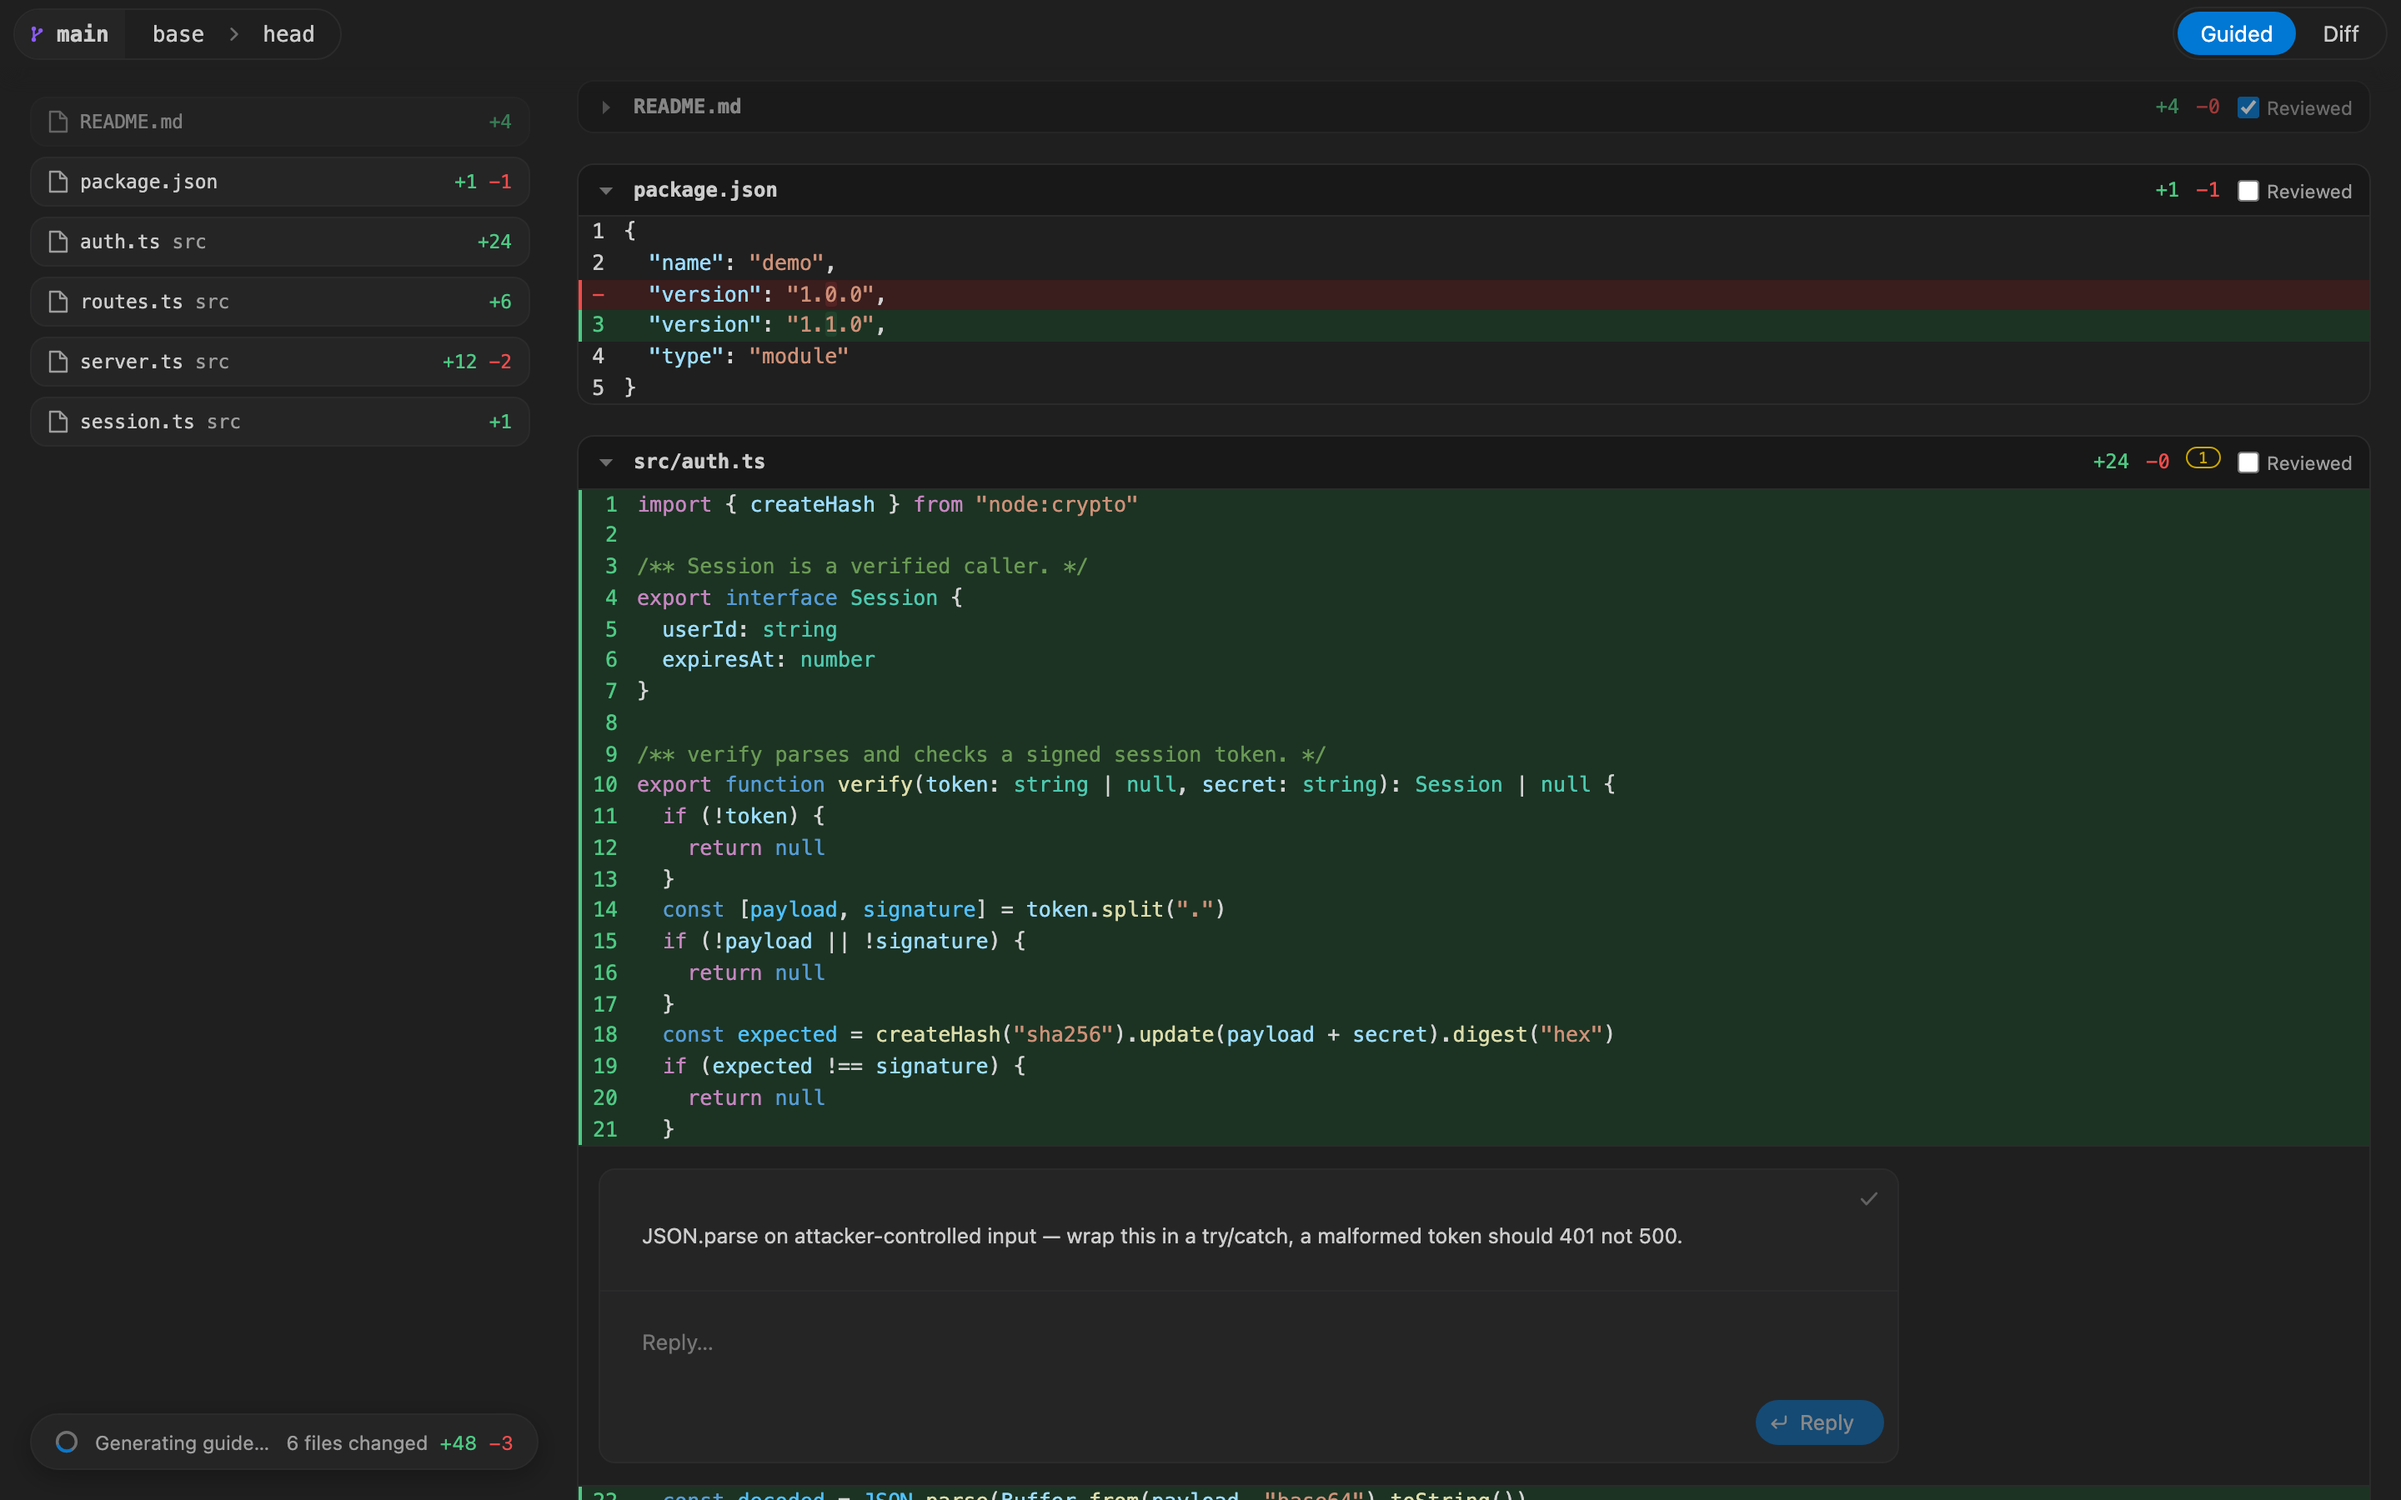
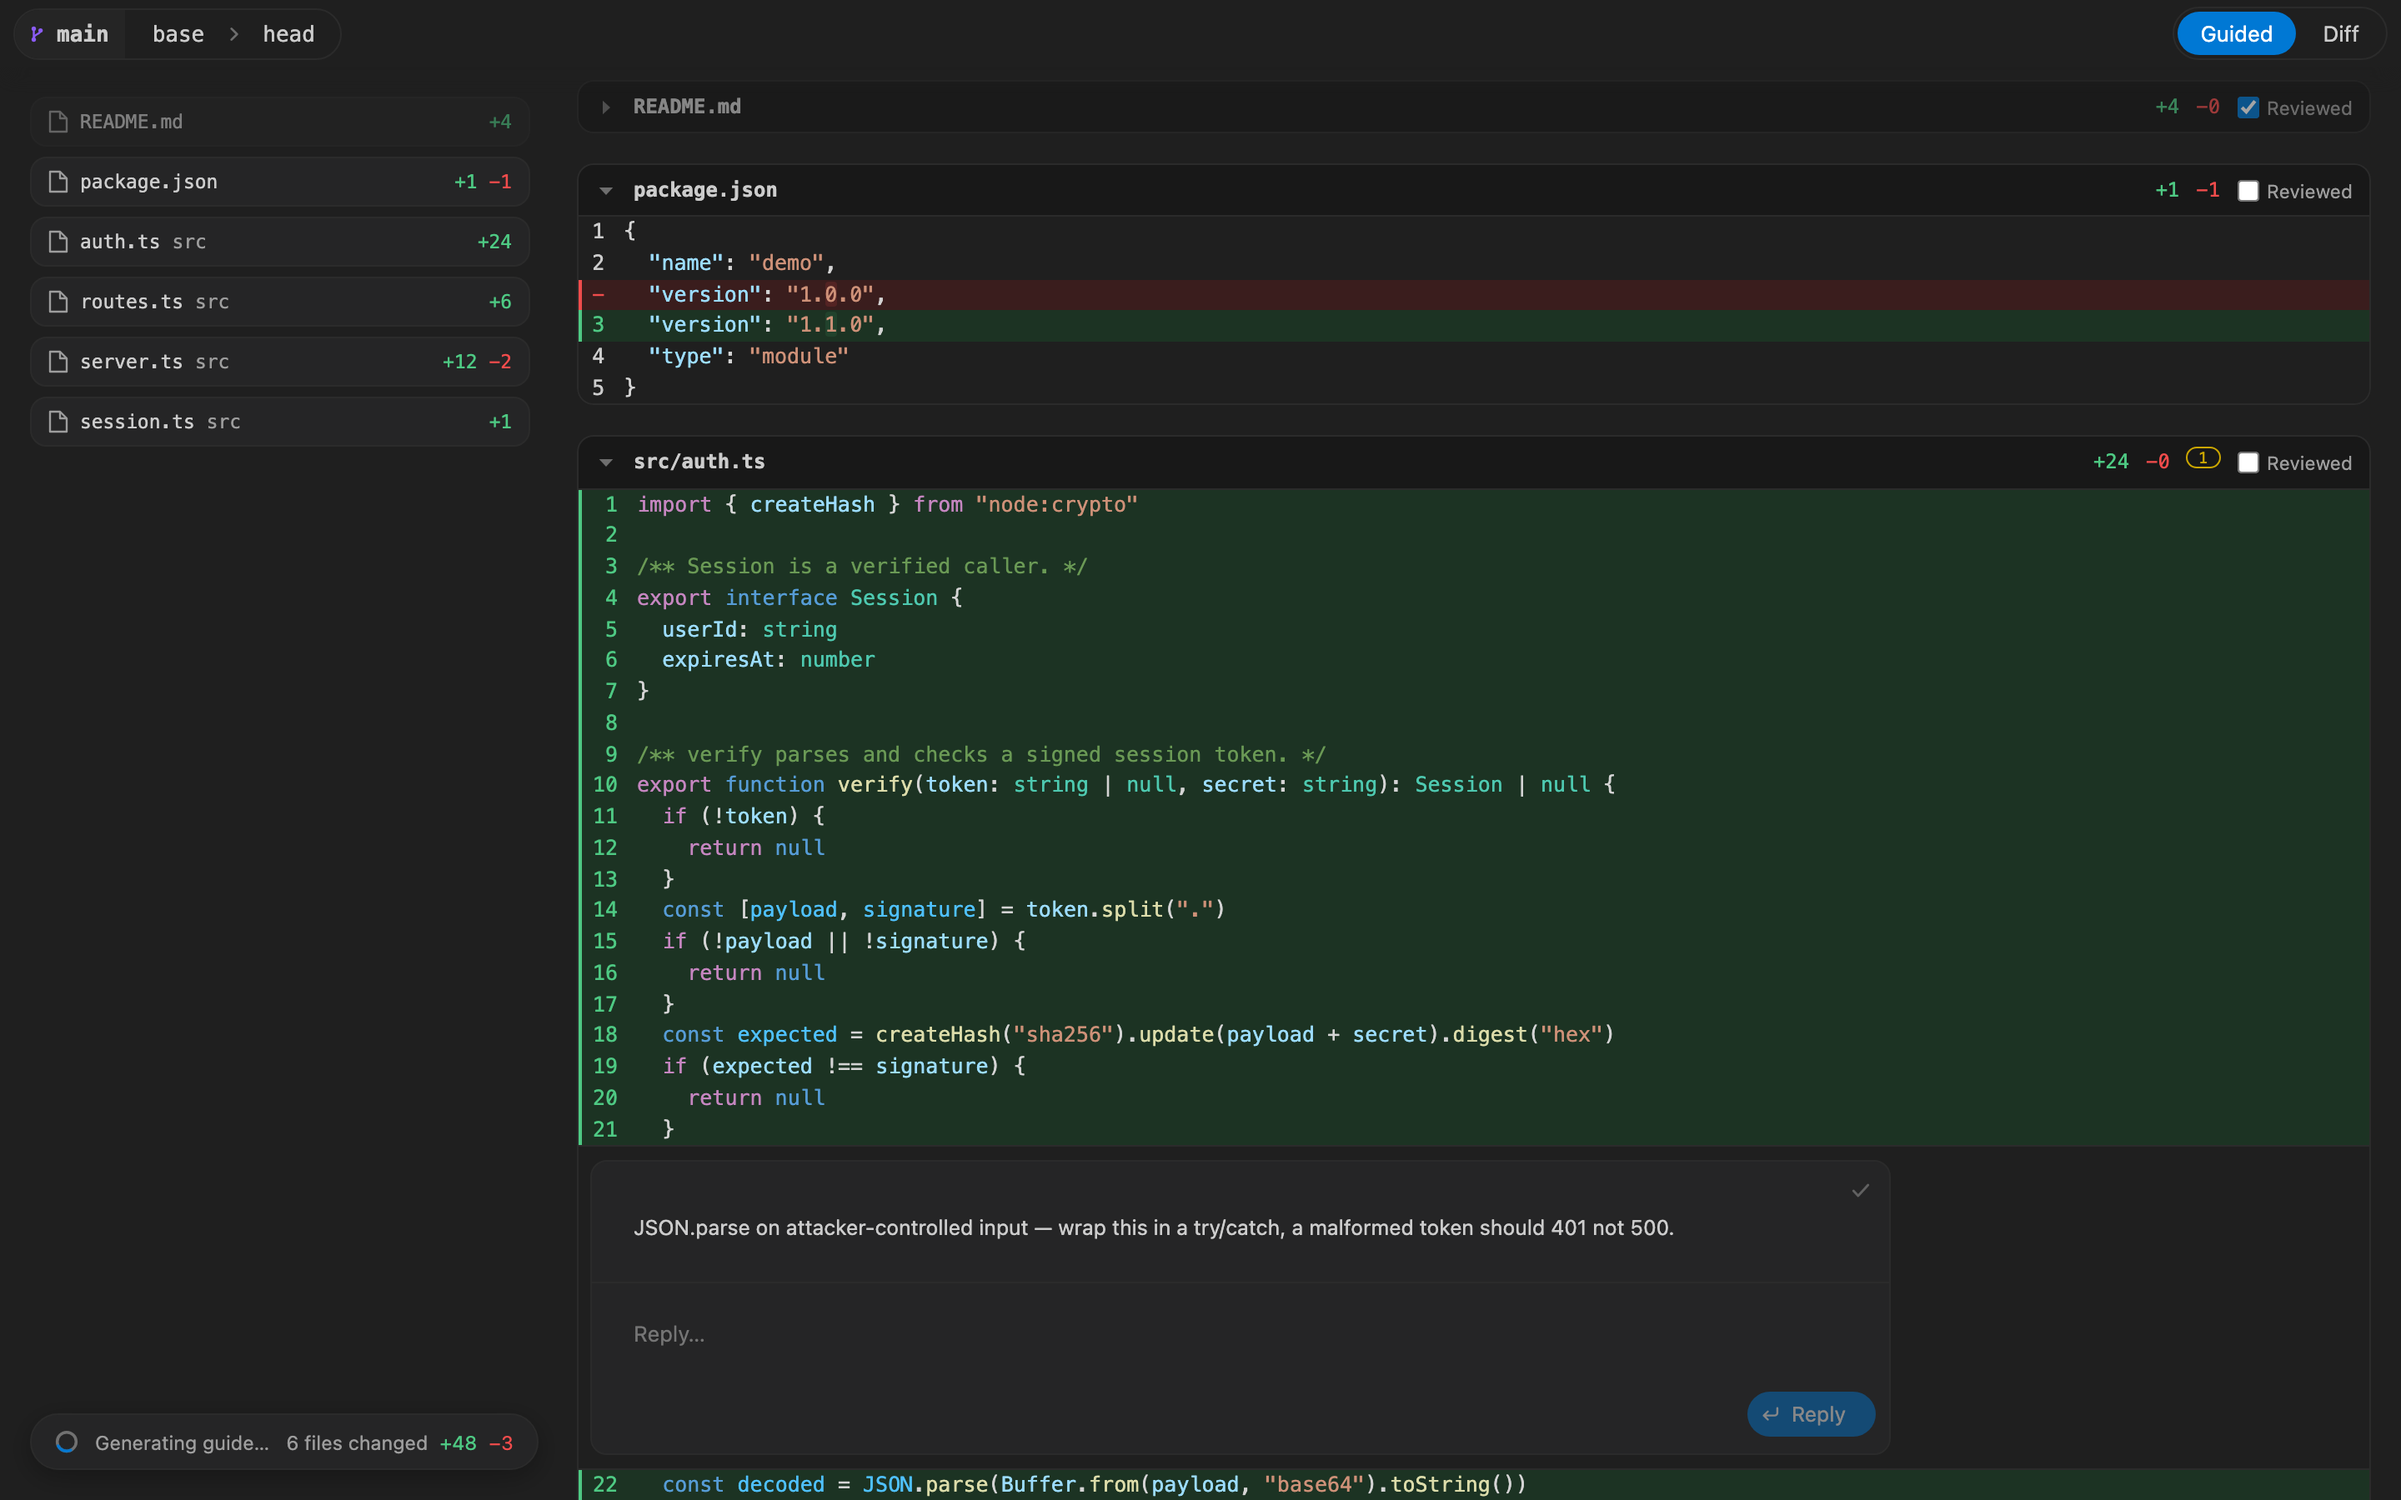
Hang a comment thread 8px from its row on every side

diff --git a/src/webview/theme.css b/src/webview/theme.css
@@ -660,7 +660,7 @@ textarea:focus { outline: 1px solid var(--vscode-focusBorder); }
   display: flex;
   flex-direction: column;
   gap: 8px;
-  padding: 13px;
+  padding: 8px;
   background: var(--vscode-editor-background);
 }
 
@@ -692,7 +692,7 @@ textarea:focus { outline: 1px solid var(--vscode-focusBorder); }
 /* ── threads ───────────────────────────────────────────────────────────── */
 
 /* a thread hangs off the line it marks, not off a column of its own */
-.gr-widget { padding: 13px 12px; border-top: 1px solid var(--vscode-panel-border); border-bottom: 1px solid var(--vscode-panel-border); }
+.gr-widget { padding: 8px 7px; border-top: 1px solid var(--vscode-panel-border); border-bottom: 1px solid var(--vscode-panel-border); }
 
 .gr-thread {
   position: relative;
